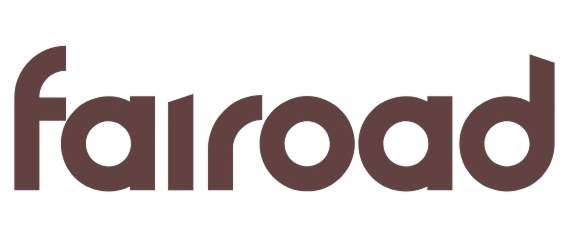
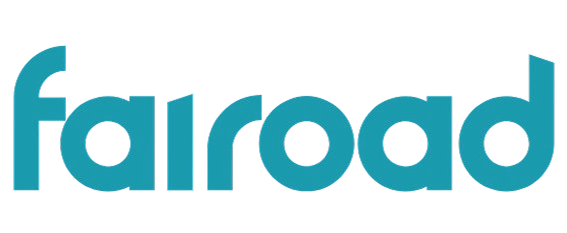
Update design

Changed region(s): [[0.0, 0.1803, 0.9894, 0.8412]]

diff --git a/Front/src/pages/RegisterPage.jsx b/Front/src/pages/RegisterPage.jsx
@@ -97,20 +97,18 @@ function RegisterPage() {
               <div
                 className="privacy-box"
                 onClick={(e) => e.stopPropagation()} >
-              <div className="privacy-content">
+              <div className="privacy-left">
                 <h5>[개인정보 수집 및 이용 동의]</h5>
                 <p><strong style={{ fontFamily: 'monospace' }}>FairRoad</strong>는 다음과 같이 개인정보를 수집 및 이용하고 있습니다.</p>
                 
-                <div className="privacy-left">
                   - 수집 및 이용 목적: 회원 가입, 서비스 제공, 이용자 식별, 부정이용 방지, 공지사항 전달 <br />
                   - 항목: 닉네임, 비밀번호, 이메일주소 <br />
                   - 수집 및 이용 목적: 본인확인, 이용자 식별, 부정이용 방지, 중복가입 방지, 공지사항 전달 <br />
                   - 항목: 이름, 생년월일, 성별, 내외국인정보, 이동통신사정보, 휴대전화번호, 연계정보(CI), 중복가입정보(DI) <br />
                   - 보유 및 이용기간: 회원탈퇴일로부터 30일 (법령에 특별한 규정이 있을 경우 관련 법령에 따라, 부정이용기록은 회원탈퇴일로부터 최대 5년) <br />
-                  동의를 거부할 권리가 있으나, 동의를 거부할 경우 회원가입이 불가능 합니다.
-                </div>
-
+                <br />
                 <p className="privacy-footer">
+                  동의를 거부할 권리가 있으나, 동의를 거부할 경우 회원가입이 불가능 합니다.<br/>
                   외부 계정을 이용하는 경우 이용자가 동의한 범위 내에서만 개인정보를 제공받고 처리합니다.
                 </p>
                 <p className="privacy-footer">

diff --git a/Front/src/css/AuthPage.css b/Front/src/css/AuthPage.css
@@ -187,11 +187,11 @@
 }
 
 .privacy-box {
-  background: #f8f8f8;
+  background: #FFFFFF;
   border-radius: 20px;
   padding: 25px 30px;
-  max-width: 700px;
-  width: 85%;
+  max-width: 900px;
+  width: 100%;
   max-height: 70%;
   overflow-y: auto;
   box-shadow: 0 0 10px rgba(0,0,0,0.2);
@@ -227,9 +227,6 @@
   }
 }
 
-.privacy-content {
-  text-align: center;
-}
 
 .privacy-left {
   text-align: left;

diff --git a/Front/src/pages/HomePage.jsx b/Front/src/pages/HomePage.jsx
@@ -9,6 +9,8 @@ function HomePage() {
       <KakaoMap />
       <h1 className="mb-2 fw-bold mt-2">How about something like this?</h1>
       <ExhibitionSlider />
+      <h1 className="mb-2 fw-bold mt-4">Collect by Topic</h1>
+
     </div>
   );
 }

diff --git a/Front/src/css/Navbar.css b/Front/src/css/Navbar.css
@@ -1,5 +1,5 @@
 .search-input {
-  background-color: #ebebeb; 
+  background-color: #CCE9ED; 
   border: none;              
   border-radius: 20px;      
   padding: 6px 12px;         
